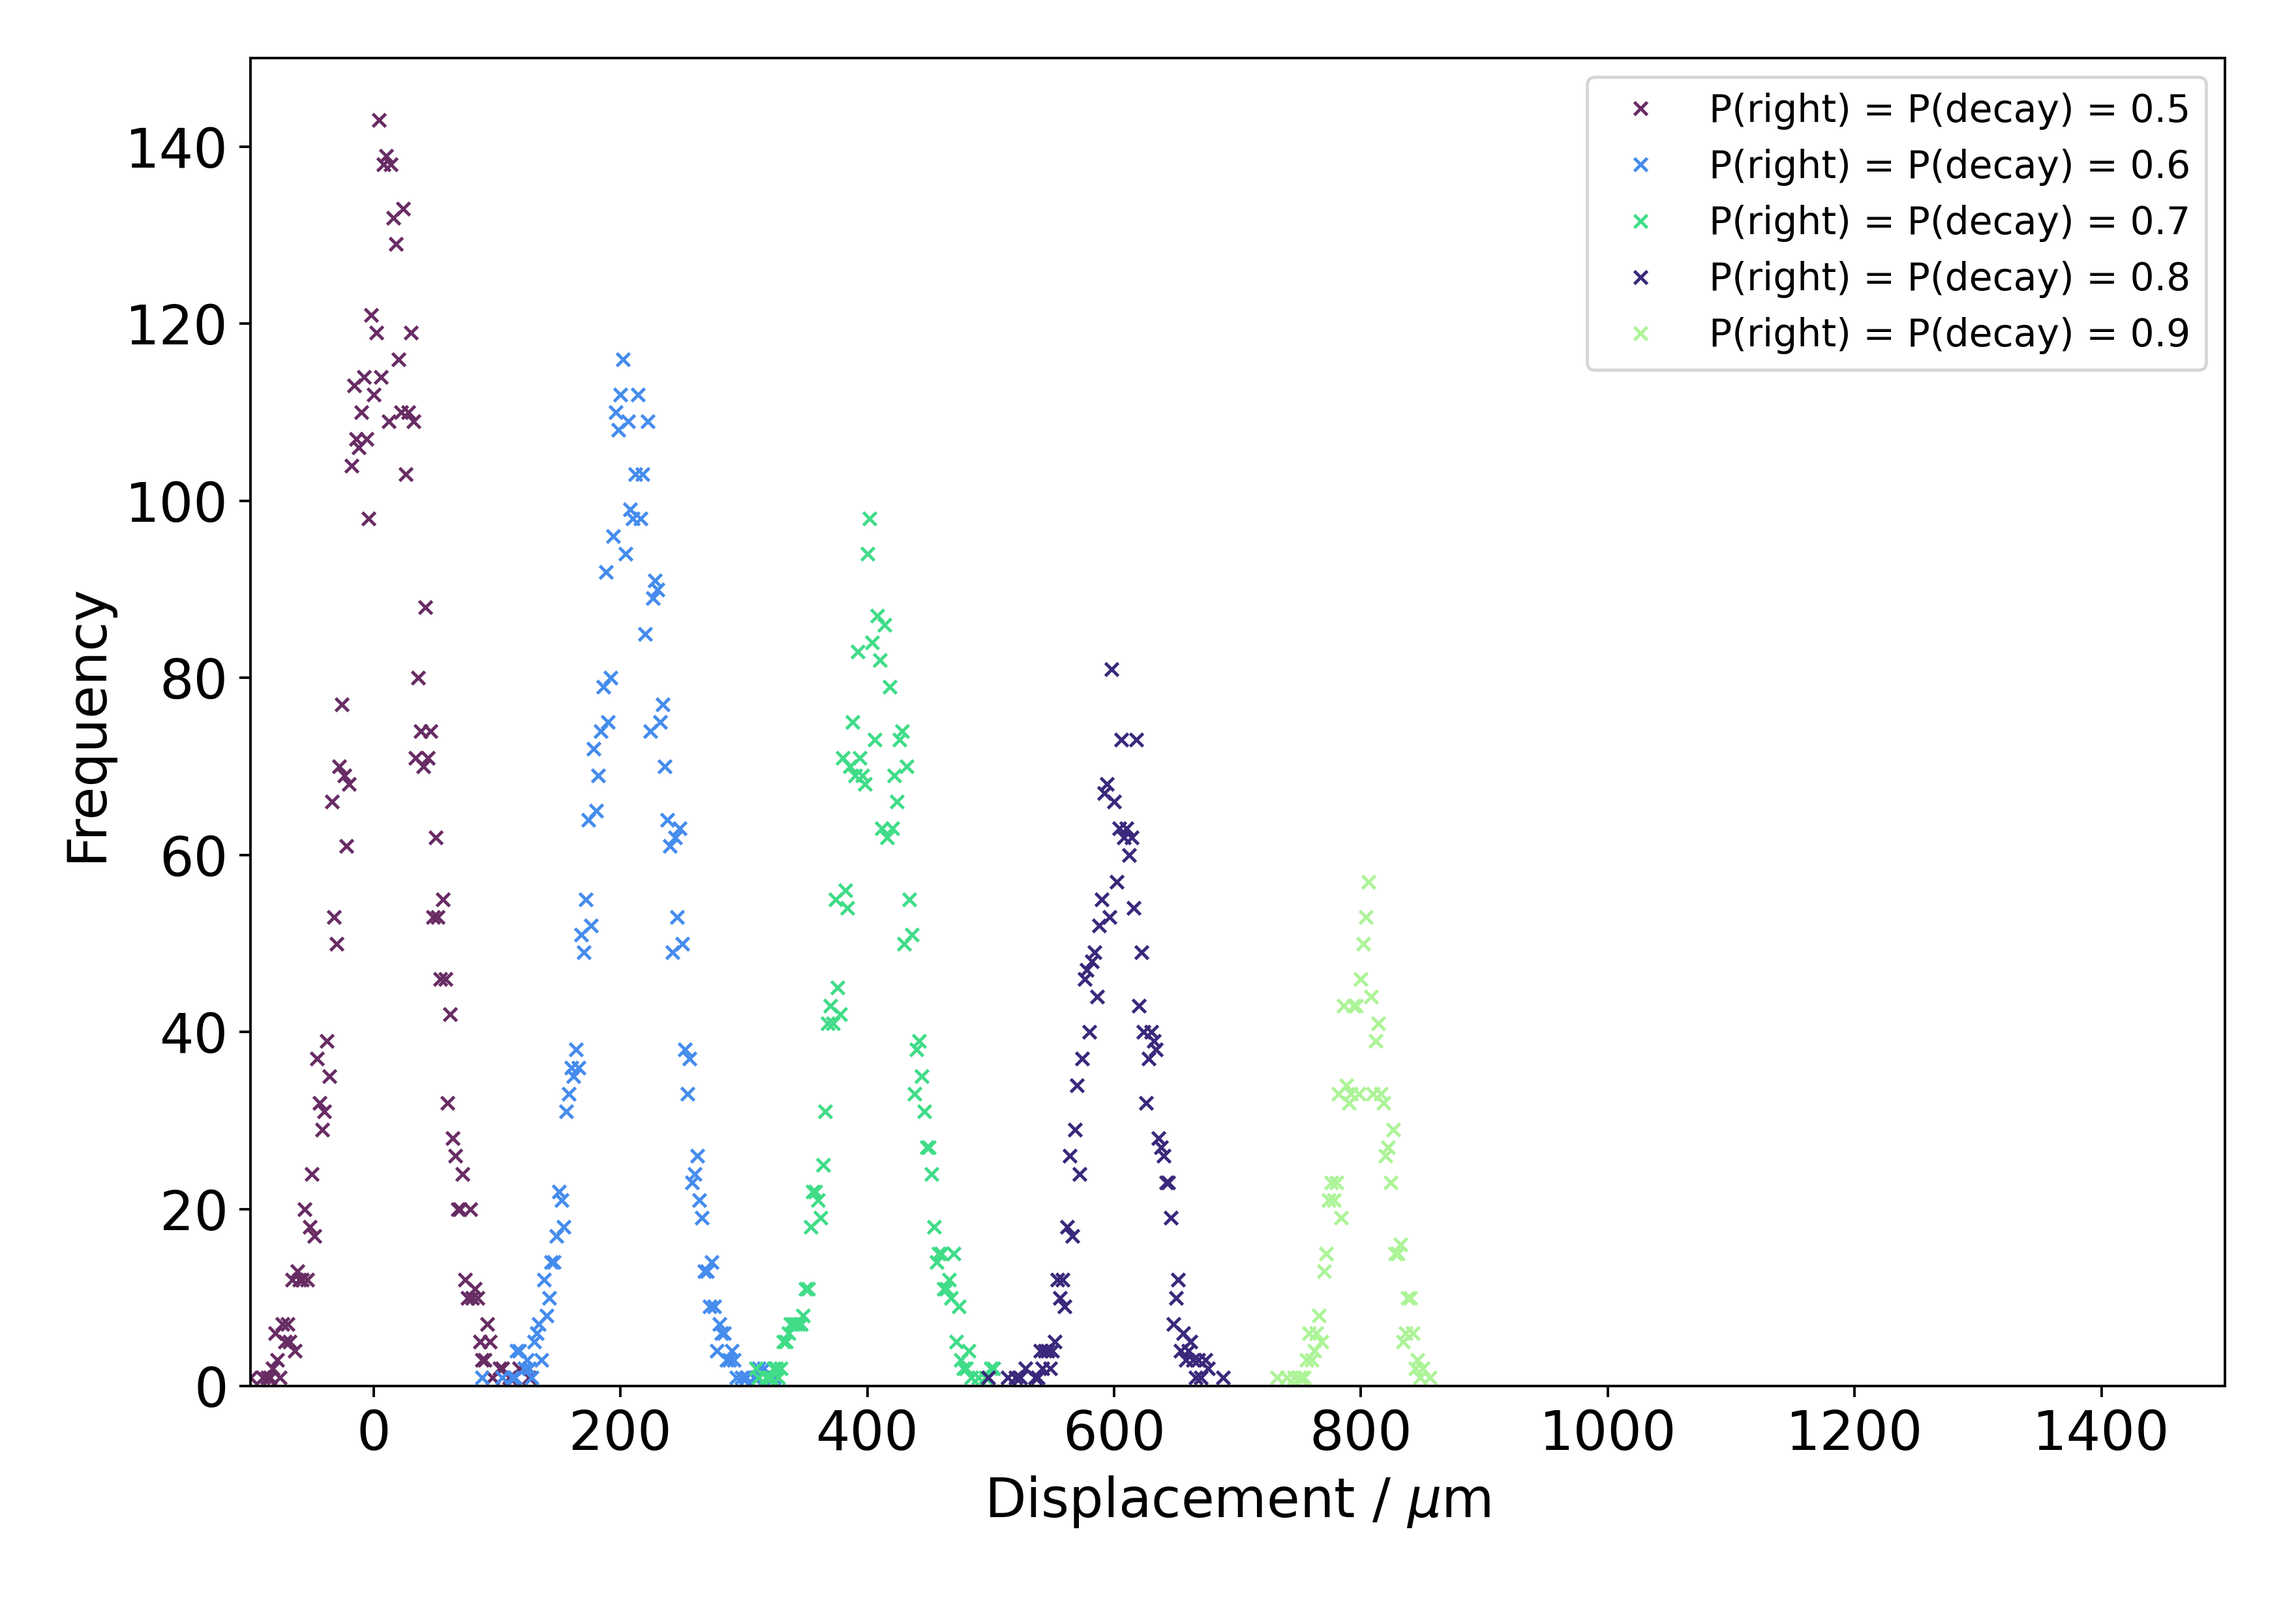
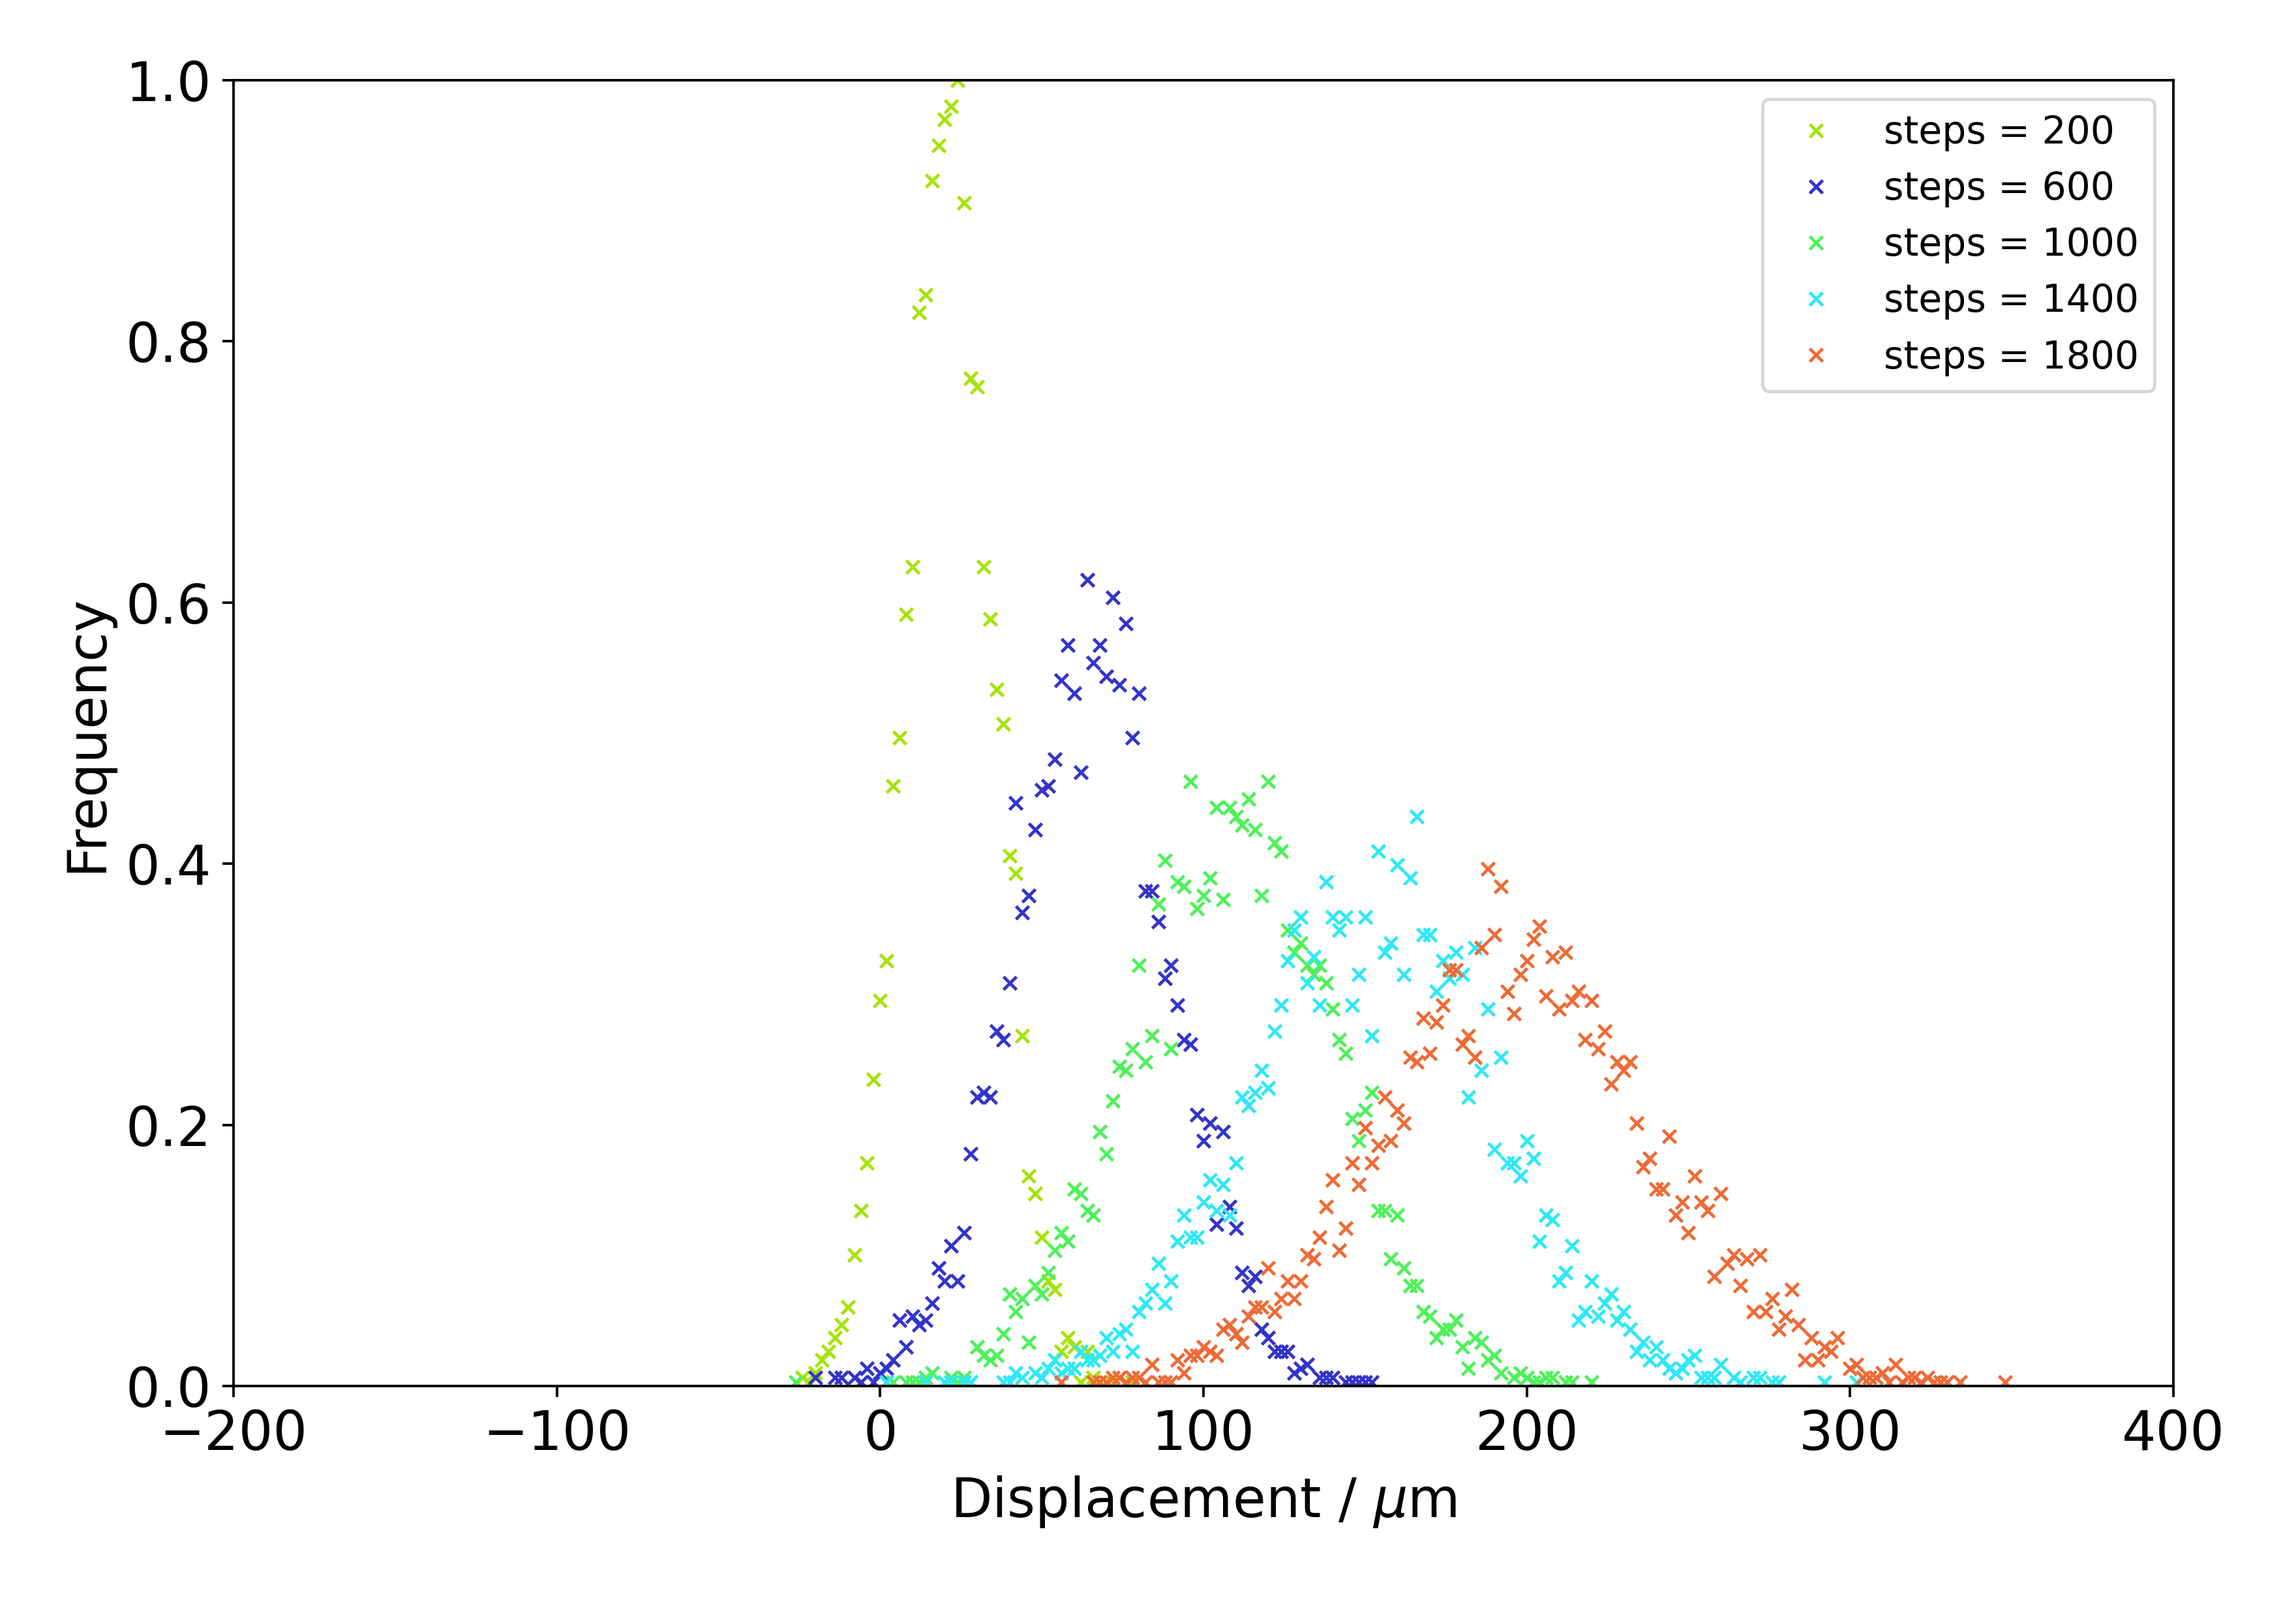
Display drift and decay at constant velocity

diff --git a/src/brains.py b/src/brains.py
@@ -6,7 +6,6 @@ from dopant_mobility import DopantMobility
 
 class Brains():
     def __init__(self):
-        self.values = Values()
         self.randomer = RandomWalk()
         self.dopant_mobility = DopantMobility()
         self.diffusion = Diffusion()
@@ -30,19 +29,23 @@ class Brains():
         plotter2 = Plotter(self.randomer.xlabel, self.randomer.ylabel, "random-multiple") #plotter for multiple random walks
         plotter3 = Plotter(self.randomer.xlabel, self.randomer.ylabel, "decay-static") #plotter for decay at set times
 
-        dict1 = self.randomer.random_walk(50)
-        dict3 = [self.randomer.random_walk(i, i) for i in range(50, 100, 10)]
-        dict4 = [dict(zip(self.randomer.xlist, self.diffusion.diffusion_decay_1d(self.randomer.xlist, tval))) for tval in self.randomer.tlist]
+        list_steps = [i for i in range(200, 2001, 400)]
+
+        dict1 = self.randomer.random_walk(1000, 50)
+        dict2 = [self.randomer.random_walk(i, 55, 50) for i in list_steps]
+        dict3 = [dict(zip(self.randomer.xlist, self.diffusion.diffusion_decay_1d(self.randomer.xlist, tval))) for tval in self.randomer.tlist]
 
         dict1_max = max(dict1.values())
-        dict4_max = max([max(dict4[i].values()) for i in range(len(dict4))])
+        dict2_max = max([max(dict2[i].values()) for i in range(len(dict2))])
+        dict3_max = max([max(dict3[i].values()) for i in range(len(dict3))])
 
         dict1 = dict(zip(dict1.keys(), [dict1[i] / dict1_max for i in dict1.keys()]))
-        dict4 = [dict(zip(dict4[i].keys(), [dict4[i][j] / dict4_max for j in dict4[i].keys()])) for i in range(len(dict4))]
+        dict2 = [dict(zip(dict2[i].keys(), [dict2[i][j] / dict2_max for j in dict2[i].keys()])) for i in range(len(dict2))]
+        dict3 = [dict(zip(dict3[i].keys(), [dict3[i][j] / dict3_max for j in dict3[i].keys()])) for i in range(len(dict3))]
 
         plotter.plot_multiple_plots(1, dict1, best_fit="exponential") #plots random walk and diffusion
-        plotter2.plot_multiple_graphs(*dict3, xlims=(-100, 1500), ylims=(0, 150), labels=[f"P(right) = P(decay) = {i / 100}" for i in range(50, 100, 10)]) #plots random walk at different probabilities of drift and decay
-        plotter3.plot_multiple_graphs(*dict4, xlims=(-0.0025, 0.0025), ylims=(0, 1), marker="None", ls="-", labels=[f"t = {tval*1e6:.1f}$\mu$s" for tval in self.randomer.tlist]) #plots decay at set times
+        plotter2.plot_multiple_graphs(*dict2, xlims=(-200, 400), ylims=(0, 1), labels=[f"steps = {i}" for i in list_steps]) #plots random walk at different probabilities of drift and decay
+        plotter3.plot_multiple_graphs(*dict3, xlims=(-0.0025, 0.0025), ylims=(0, 1), marker="None", ls="-", labels=[f"t = {tval*1e6:.1f}$\mu$s" for tval in self.randomer.tlist]) #plots decay at set times
 
 
     def plot_dopant_mobility_graphs(self):
